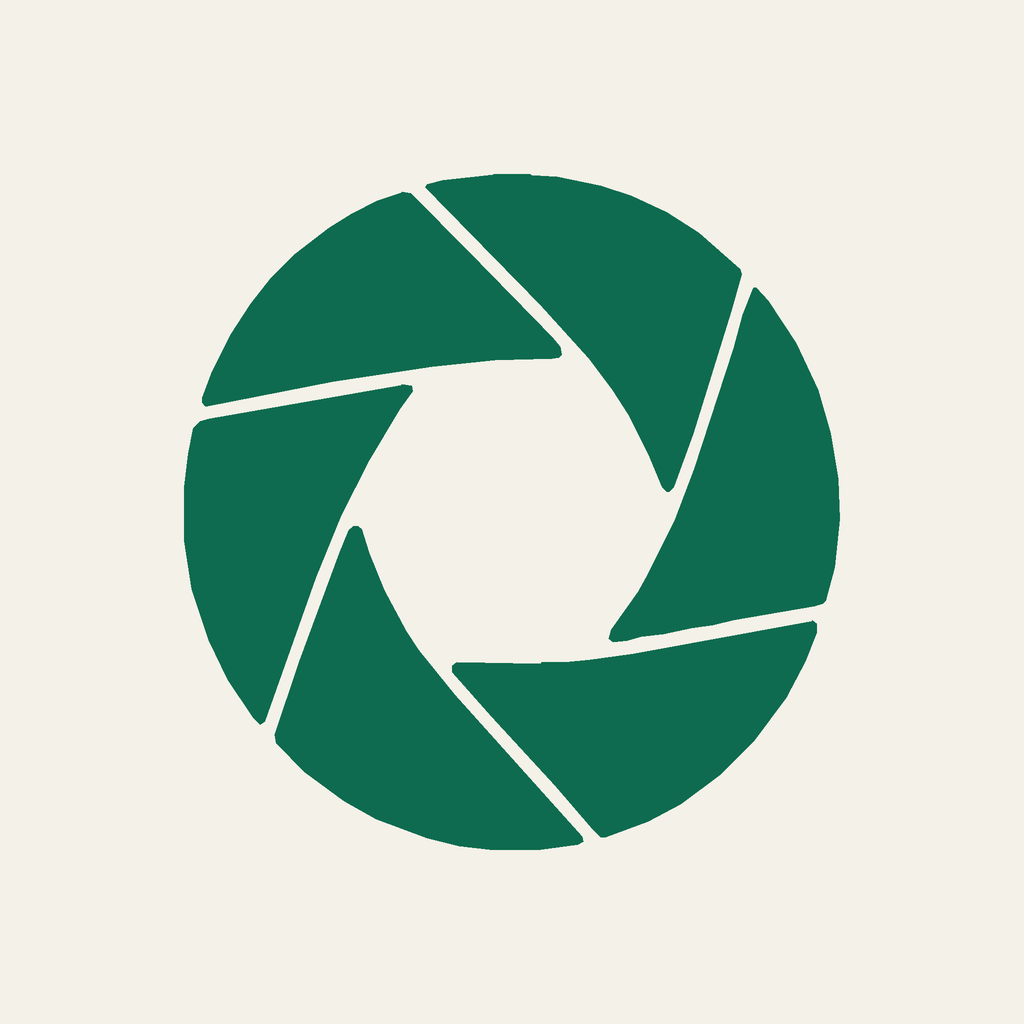
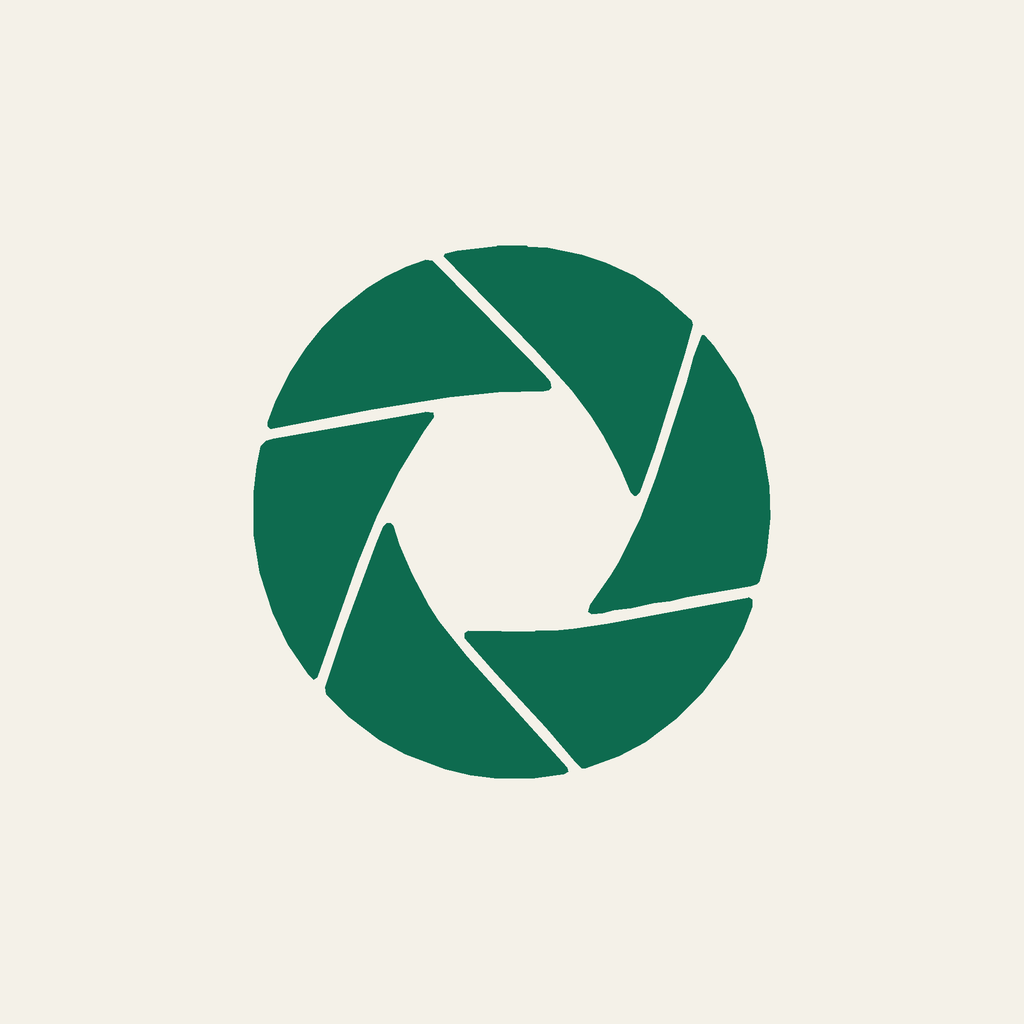
Иконки: знак 56 dp, чтобы круглая маска лончера не срезала фон
Лончер показывает центральные 72 dp из кадра 108 dp, а знак занимал их
целиком: под круглой маской оставался только затвор, фон вокруг него
не был виден вообще. Теперь знак — 56 dp, кольцо в шестом варианте —
63 dp, поэтому внутри маски всегда остаётся ободок фона.

Превью в настройках показывает те же 72 dp под круглой маской, а не весь
кадр 108 dp: раньше оно льстило иконке и расходилось с рабочим столом.
Знак в репозиторных PNG тоже режется по 72 dp (launcher_crop вместо
маски на весь кадр).

Changed region(s): [[0.1562, 0.1562, 0.8438, 0.8438]]

diff --git a/app/src/main/java/ru/fitapp/ui/settings/SettingsScreen.kt b/app/src/main/java/ru/fitapp/ui/settings/SettingsScreen.kt
@@ -66,6 +66,7 @@ import androidx.compose.ui.Alignment
 import androidx.compose.ui.Modifier
 import androidx.compose.ui.draw.clip
 import androidx.compose.ui.draw.drawBehind
+import androidx.compose.ui.draw.scale
 import androidx.compose.ui.geometry.Offset
 import androidx.compose.ui.graphics.Brush
 import androidx.compose.ui.graphics.Color
@@ -583,7 +584,7 @@ private fun MacroSummary(label: String, grams: Int?) {
 }
 
 /**
- * Одна иконка в сетке выбора: круглая маска лончера не нужна — рисуем squircle,
+ * Одна иконка в сетке выбора: превью в той же круглой маске, что у лончера,
  * выбранная обводится кольцом цвета primary.
  */
 @Composable
@@ -607,7 +608,7 @@ private fun IconOption(
                 Box(
                     modifier = Modifier
                         .fillMaxSize()
-                        .border(2.dp, scheme.primary, RoundedCornerShape(20.dp)),
+                        .border(2.dp, scheme.primary, CircleShape),
                 )
             }
             AppIconPreview(icon = icon, modifier = Modifier.size(60.dp))
@@ -623,20 +624,31 @@ private fun IconOption(
     }
 }
 
-/** Превью иконки ровно из тех же ресурсов, что уходят в лончер: фон + знак. */
+/** Маска лончера — центральные 72 dp из кадра 108 dp, значит кадр растягиваем в 108/72 раза. */
+private const val LAUNCHER_ICON_ZOOM = 108f / 72f
+
+/**
+ * Превью иконки из тех же ресурсов, что уходят в лончер: фон + знак, но показанные
+ * так, как их видит лончер, — центральные 72 dp из 108 dp под круглой маской.
+ * Если нарисовать весь кадр, в настройках иконка выглядит крупнее и «полнее»,
+ * чем на рабочем столе: лончер отрезает по 18 dp с каждой стороны.
+ */
 @Composable
 private fun AppIconPreview(icon: AppIcon, modifier: Modifier = Modifier) {
     val description = stringResource(R.string.cd_app_icon_option, stringResource(icon.title))
-    Box(
-        modifier = modifier
-            .clip(RoundedCornerShape(18.dp))
-            .drawBehind { drawIconBackground(icon.background) },
-    ) {
-        Image(
-            painter = painterResource(icon.foreground),
-            contentDescription = description,
-            modifier = Modifier.fillMaxSize(),
-        )
+    Box(modifier = modifier.clip(CircleShape)) {
+        Box(
+            modifier = Modifier
+                .fillMaxSize()
+                .scale(LAUNCHER_ICON_ZOOM)
+                .drawBehind { drawIconBackground(icon.background) },
+        ) {
+            Image(
+                painter = painterResource(icon.foreground),
+                contentDescription = description,
+                modifier = Modifier.fillMaxSize(),
+            )
+        }
     }
 }
 

diff --git a/icons/build_icons_v6.py b/icons/build_icons_v6.py
@@ -6,8 +6,8 @@
 геометрия. Цвета сняты пипеткой с `artifacts/release/github-release-splash.png`:
 изумруд `#0F543B`/`#0D503A`, мята `#98E2C3`, лаймовое и персиковое свечение.
 
-Каждый вариант — 1024×1024 (полный кадр adaptive icon 108 dp) плюс превью под
-круглую маску и строка «как это выглядит в 48 dp».
+Каждый вариант — 1024×1024 (полный кадр adaptive icon 108 dp) плюс то, что реально
+видит лончер: центральные 72 dp из кадра под круговой маской, и превью 48 dp.
 
 Запуск: python icons/build_icons_v6.py
 """
@@ -27,8 +27,14 @@ FONTS = ROOT / "design" / "fonts"
 
 SIZE = 1024
 SS = 2  # суперсэмплинг: рисуем в 2048 и уменьшаем
-MARK_FRACTION = 0.66  # диаметр знака к стороне кадра: 72 dp из 108 dp — зона контента
-RING_MARK_FRACTION = 0.54  # в варианте с кольцом знак меньше: кольцо занимает 0.66
+# Лончер показывает центральные 72 dp из 108 dp и режет их своей маской. Знак
+# 56 dp оставляет вокруг себя видимый ободок фона; при прежних 72 dp знак
+# совпадал с маской, и на круглой иконке был виден только затвор.
+VISIBLE_FRACTION = 72 / 108  # диаметр маски лончера к стороне кадра
+MARK_FRACTION = 0.52  # 56 dp из 108 dp
+RING_MARK_FRACTION = 0.46  # в варианте с кольцом знак меньше: остаётся место кольцу
+RING_OUTER_FRACTION = 0.58  # внешний диаметр кольца — 63 dp
+RING_WIDTH_FRACTION = 0.017  # толщина кольца — 1.8 dp
 
 # --- палитра, снятая со сплэша и из Theme.kt --------------------------------
 EMERALD_TOP = "#0F543B"
@@ -184,8 +190,8 @@ def draw_icon(spec: dict) -> Image.Image:
     if spec.get("ring"):
         # Кольцо рисуем маской (внешний круг минус внутренний): outline у PIL
         # на больших радиусах оставляет разрывы.
-        radius = size * MARK_FRACTION / 2
-        width = size * 0.018
+        radius = size * RING_OUTER_FRACTION / 2
+        width = size * RING_WIDTH_FRACTION
         annulus = Image.new("L", (size, size), 0)
         ring_draw = ImageDraw.Draw(annulus)
         ring_draw.ellipse(
@@ -203,16 +209,20 @@ def draw_icon(spec: dict) -> Image.Image:
     return canvas.resize((SIZE, SIZE), Image.LANCZOS)
 
 
-def circle_masked(icon: Image.Image) -> Image.Image:
-    """Круглая маска лончера; углы прозрачные, чтобы лист не белел."""
+def launcher_crop(icon: Image.Image) -> Image.Image:
+    """Иконка глазами лончера: центральные 72 dp из 108 dp, обрезанные кругом.
+
+    Раньше здесь была маска почти на весь кадр (108 dp), поэтому превью выглядели
+    крупнее и «полнее», чем на рабочем столе: маска лончера всегда 72 dp.
+    """
     size = icon.size[0]
-    mask = Image.new("L", (size, size), 0)
-    ImageDraw.Draw(mask).ellipse(
-        (size * 0.01, size * 0.01, size * 0.99, size * 0.99), fill=255
-    )
-    result = icon.convert("RGBA")
-    result.putalpha(mask)
-    return result
+    side = int(round(size * VISIBLE_FRACTION))
+    left = (size - side) // 2
+    square = icon.convert("RGBA").crop((left, left, left + side, left + side))
+    mask = Image.new("L", (side, side), 0)
+    ImageDraw.Draw(mask).ellipse((0, 0, side - 1, side - 1), fill=255)
+    square.putalpha(mask)
+    return square
 
 
 def label(draw: ImageDraw.ImageDraw, xy: tuple[int, int], text: str, size: int, fill: str, font_name: str = "Manrope-500.ttf") -> None:
@@ -233,7 +243,7 @@ def build_sheet(icons: list[tuple[dict, Image.Image]], target: Path) -> None:
     label(
         draw,
         (pad, pad + 44),
-        "знак — диафрагма со сплэша, цвета сняты с него же",
+        "знак — диафрагма со сплэша; в кадре то, что видит лончер: 72 из 108 dp, круглая маска",
         22,
         "#9BA9A2",
     )
@@ -251,9 +261,9 @@ def build_sheet(icons: list[tuple[dict, Image.Image]], target: Path) -> None:
         row, col = divmod(index, cols)
         x = pad + col * (cell + gap)
         y = pad + header + row * (cell + 118 + gap)
-        shot = circle_masked(icon).resize((cell, cell), Image.LANCZOS)
+        shot = launcher_crop(icon).resize((cell, cell), Image.LANCZOS)
         sheet.paste(shot, (x, y), shot)
-        small = circle_masked(icon).resize((72, 72), Image.LANCZOS)
+        small = launcher_crop(icon).resize((72, 72), Image.LANCZOS)
         sheet.paste(small, (x + cell - 72, y + cell - 72), small)
         label(draw, (x, y + cell + 14), spec["slug"], 22, "#F4F1E8", "Manrope-700.ttf")
         label(draw, (x, y + cell + 46), spec["title"], 20, "#7FD8B0")
@@ -268,7 +278,8 @@ PARSE = parse_paths()
 def vector_xml(spec: dict) -> str:
     """Готовый adaptive-icon foreground: тот же контур в системе 108 dp.
 
-    Знак вписан в 72 dp из 108 dp — зону контента, которую маска лончера не срезает.
+    Знак 56 dp из 108 dp: лончер показывает центральные 72 dp и режет их маской,
+    поэтому вокруг знака остаётся ободок фона и он не упирается в край.
     """
     dp = 108
     fraction = RING_MARK_FRACTION if spec.get("ring") else MARK_FRACTION
@@ -282,18 +293,17 @@ def vector_xml(spec: dict) -> str:
 
     ring = ""
     if spec.get("ring"):
-        radius = dp * MARK_FRACTION / 2
-        inner = radius - dp * 0.018
+        radius = dp * RING_OUTER_FRACTION / 2
         ring = (
             f'\n    <path\n        android:fillColor="{spec["mark"]}"\n'
             f'        android:pathData="M{dp / 2 - radius:.2f},{dp / 2:.2f} '
             f'a{radius:.2f},{radius:.2f} 0 1,1 {2 * radius:.2f},0 '
             f'a{radius:.2f},{radius:.2f} 0 1,1 {-2 * radius:.2f},0 Z '
-            f'M{dp / 2 - radius + dp * 0.018:.2f},{dp / 2:.2f} '
-            f'a{radius - dp * 0.018:.2f},{radius - dp * 0.018:.2f} 0 1,0 '
-            f'{2 * (radius - dp * 0.018):.2f},0 '
-            f'a{radius - dp * 0.018:.2f},{radius - dp * 0.018:.2f} 0 1,0 '
-            f'{-2 * (radius - dp * 0.018):.2f},0 Z"\n        android:fillType="evenOdd" />'
+            f'M{dp / 2 - radius + dp * RING_WIDTH_FRACTION:.2f},{dp / 2:.2f} '
+            f'a{radius - dp * RING_WIDTH_FRACTION:.2f},{radius - dp * RING_WIDTH_FRACTION:.2f} 0 1,0 '
+            f'{2 * (radius - dp * RING_WIDTH_FRACTION):.2f},0 '
+            f'a{radius - dp * RING_WIDTH_FRACTION:.2f},{radius - dp * RING_WIDTH_FRACTION:.2f} 0 1,0 '
+            f'{-2 * (radius - dp * RING_WIDTH_FRACTION):.2f},0 Z"\n        android:fillType="evenOdd" />'
         )
 
     return f"""<?xml version="1.0" encoding="utf-8"?>
@@ -472,8 +482,8 @@ def main() -> None:
         folder.mkdir(exist_ok=True)
         icon = draw_icon(spec)
         icon.save(folder / "icon-1024.png")
-        circle_masked(icon).save(folder / "icon-circle.png")
-        circle_masked(icon).resize((192, 192), Image.LANCZOS).save(folder / "icon-48dp.png")
+        launcher_crop(icon).save(folder / "icon-circle.png")
+        launcher_crop(icon).resize((192, 192), Image.LANCZOS).save(folder / "icon-48dp.png")
         write_resources(spec, folder)
         built.append((spec, icon))
         print(f"{folder.name}: {spec['title']}")

diff --git a/icons/README.md b/icons/README.md
@@ -7,8 +7,18 @@
 [github-release-splash.png](../artifacts/release/github-release-splash.png): изумруд `#0F543B`/`#0D503A`,
 мята `#98E2C3`, лаймовое и персиковое свечение `#BFE56F`/`#FFB77D`; крем `#F4F1E8` и ночь `#101613` — из `Theme.kt`.
 
-Обзорный лист: [variants-sheet-v6.png](variants-sheet-v6.png). Каждый вариант — 1024×1024, круглая маска
-и превью 48 dp; в папке лежит готовый `res/` для adaptive icon.
+Обзорный лист: [variants-sheet-v6.png](variants-sheet-v6.png). Каждый вариант — 1024×1024
+(полный кадр adaptive icon 108 dp), `icon-circle.png` — то, что реально видит лончер: центральные
+72 dp под круговой маской, и превью 48 dp; в папке лежит готовый `res/` для adaptive icon.
+
+### Геометрия: почему знак 56 dp, а не 72
+
+Кадр adaptive icon — 108 dp, но лончер показывает только центральные 72 dp и режет их своей маской
+(круг, squircle, квадрат). Знак, растянутый на все 72 dp, на круглой иконке упирается в край: фона
+вокруг не видно, остаётся один затвор. Поэтому знак — 56 dp (безопасная зона по гайдлайнам — круг
+66 dp), кольцо в шестом варианте — 63 dp, и вокруг всегда остаётся ободок фона. Превью в
+«Настройки → Оформление → Иконка приложения» показывает те же 72 dp под круглой маской, поэтому
+совпадает с рабочим столом.
 
 | № | Папка | Идея | Когда уместна |
 |---|-------|------|---------------|
@@ -32,7 +42,7 @@
 
 | Ресурс | Что это |
 |---|---|
-| `drawable/ic_launcher_foreground{,_glow,_cream,_lime,_night,_ring}.xml` | знак в системе 108 dp, вписан в 72 dp |
+| `drawable/ic_launcher_foreground{,_glow,_cream,_lime,_night,_ring}.xml` | знак 56 dp в кадре 108 dp: внутри маски лончера остаётся ободок фона |
 | `drawable/ic_launcher_background_glow.xml` | градиент и два пятна для варианта «Свечение» |
 | `values/ic_launcher_colors.xml` | фоны остальных пяти (`ic_launcher_background*`) |
 | `mipmap-anydpi-v26/ic_launcher{,_glow,_cream,_lime,_night,_ring}.xml` | adaptive icon каждого варианта |
